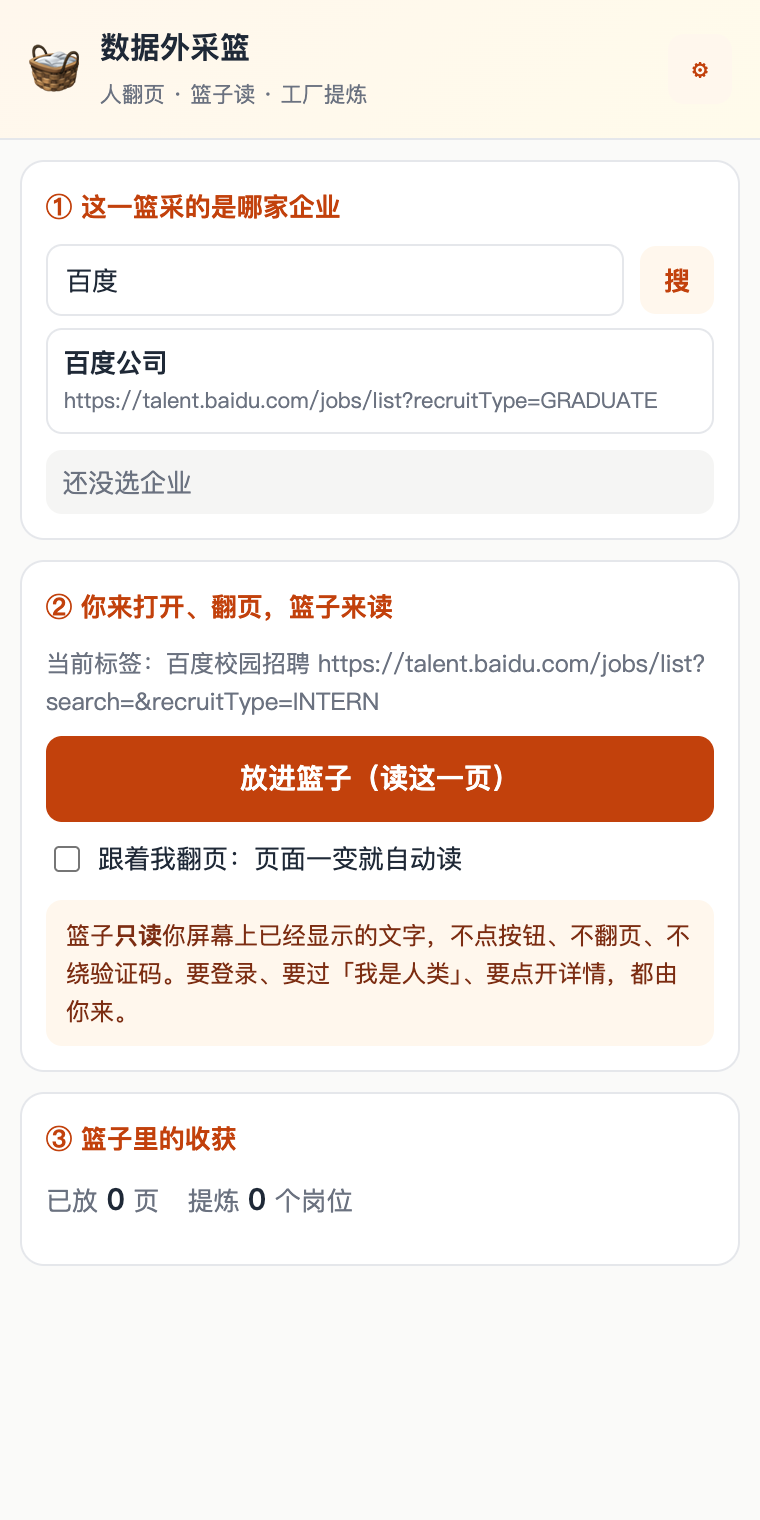
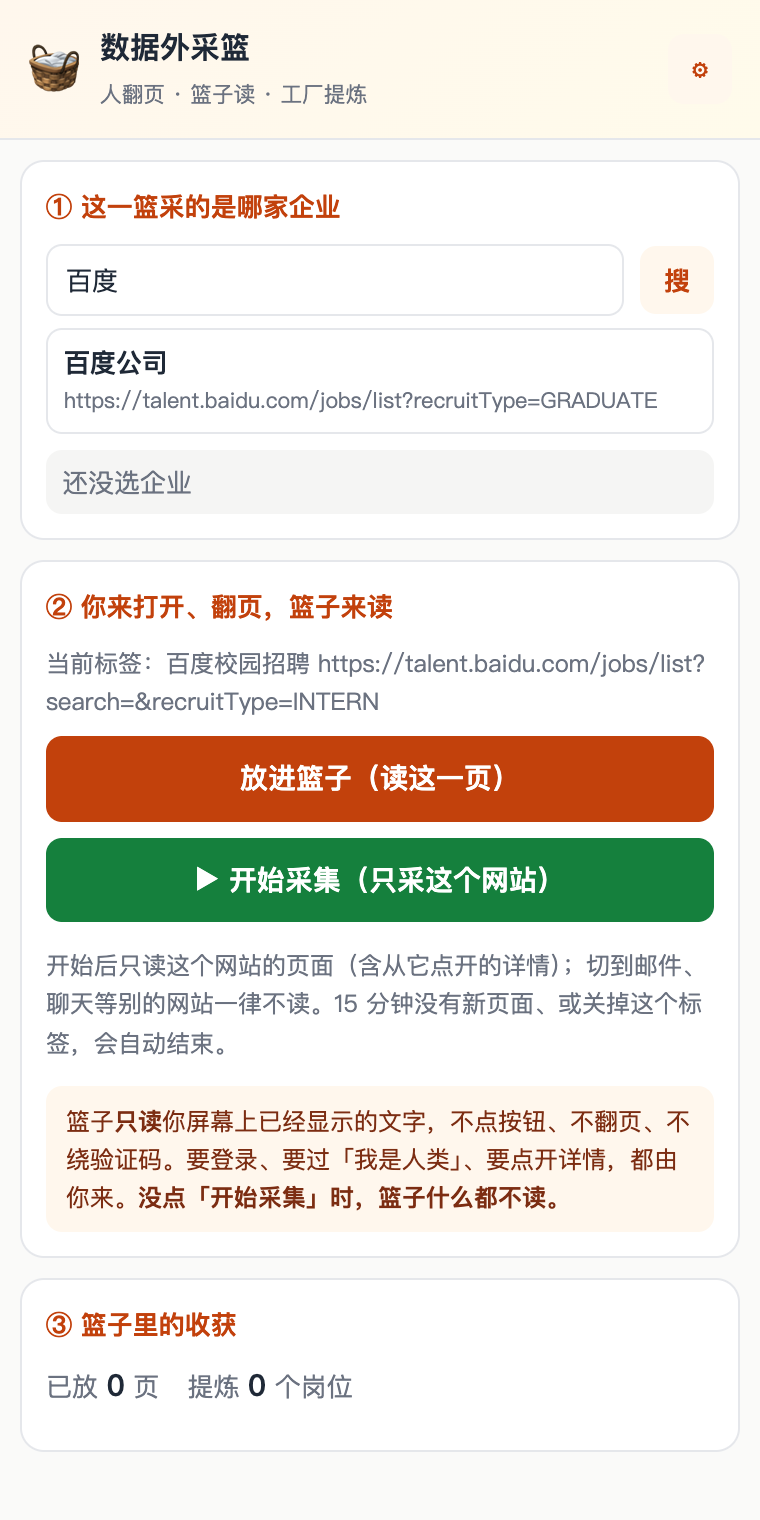
feat(数据外采篮 v0.1.4): 人工开始 / 结束采集——没点开始什么都不读；开始后只读起始网站（主域名，含点开的详情），切到别的网站一律不读；工具栏亮红色「采」；15 分钟无新页面或关掉起始标签自动结束；使用说明和截图同步更新

Changed region(s): [[0.0605, 0.5257, 0.9382, 0.8039], [0.0605, 0.8658, 0.4539, 0.9276]]

diff --git a/extension/data-basket/sidepanel.js b/extension/data-basket/sidepanel.js
@@ -1,7 +1,11 @@
 // 数据外采篮 · 侧边栏
 // 规矩：只读当前标签页上已经显示的文字和链接，不点击、不翻页、不填表、不碰验证码。翻页、登录、点开详情都由人来做。
 const $ = id => document.getElementById(id);
-const state = { base: '', token: '', company: null, follow: false, lastHash: '', sending: false, pages: 0, jobs: 0 };
+const state = { base: '', token: '', company: null, session: null, lastHash: '', sending: false, pages: 0, jobs: 0 };
+// 采集会话：人点「开始采集」才开始，只采开始时那个网站（主域名），15 分钟没新页面 / 关掉起始标签自动结束
+const IDLE_MS = 15 * 60 * 1000;
+const baseDomain = host => { const p = host.replace(/^www\./, '').split('.'); const two = p.length >= 3 && /^(com|net|org|gov|edu|co)$/.test(p[p.length - 2]); return p.slice(two ? -3 : -2).join('.'); };
+const inSession = url => { try { return !!state.session && baseDomain(new URL(url).hostname) === state.session.domain; } catch { return false; } };
 
 const hash = s => { let h = 0; for (let i = 0; i < s.length; i++) h = (h * 31 + s.charCodeAt(i)) | 0; return String(h); };
 
@@ -44,9 +48,10 @@ function readPage() {
   };
 }
 
-async function snapshot() {
+async function snapshot(onlySession = false) {
   const t = await activeTab();
   if (!t || !/^https?:/.test(t.url || '')) return null;
+  if (onlySession && !inSession(t.url)) return null;   // 不是这次采集的网站：一个字都不读
   const [res] = await chrome.scripting.executeScript({ target: { tabId: t.id }, func: readPage });
   return res && res.result;
 }
@@ -77,7 +82,7 @@ function addLog(item, save = true) {
   li.innerHTML = `<span class="${item.ok ? 'ok' : 'bad'}"></span><small></small>${item.ok && item.companyId ? '<a class="go" target="_blank">去岗位库看 ↗</a>' : ''}`;
   const go = li.querySelector('a.go');
   if (go) go.href = `${state.base.replace(/\/$/, '')}/admin/db-job?companyId=${item.companyId}&companyName=${encodeURIComponent(item.company)}&jobType=all${item.kind === 'detail' ? '&flag=%E8%AF%A6%E6%83%85%E5%B7%B2%E8%A1%A5' : ''}`;
-  li.querySelector('span').textContent = item.ok ? `✓ ${item.company}：提炼 ${item.jobs} 个，入库 ${item.saved}${item.kind === 'detail' ? '（详情）' : ''}` : `✗ ${item.error}`;
+  li.querySelector('span').textContent = item.note ? '■ 采集结束' : item.ok ? `✓ ${item.company}：提炼 ${item.jobs} 个，入库 ${item.saved}${item.kind === 'detail' ? '（详情）' : ''}` : `✗ ${item.error}`;
   li.querySelector('small').textContent = `${item.time} · ${item.title || ''}`;
   $('log').prepend(li);
   if (save) chrome.storage.local.get('log').then(s => chrome.storage.local.set({ log: [item, ...(s.log || [])].slice(0, 100) }));
@@ -87,14 +92,15 @@ async function putInBasket(reason) {
   if (state.sending) return;
   if (!state.token) { $('settings').classList.remove('hidden'); $('settingsMsg').textContent = '先填篮子口令'; return; }
   if (!state.company) { $('picked').textContent = '先选这一篮是哪家企业'; return; }
-  const snap = await snapshot().catch(e => ({ error: e.message }));
+  const snap = await snapshot(reason === 'follow').catch(e => ({ error: e.message }));
+  if (!snap && reason === 'follow') return;   // 这一瞬间切到了别的网站：不读
   if (!snap || snap.error) { addLog({ ok: false, error: `读不到这一页：${snap?.error || '不是网页'}`, time: new Date().toLocaleTimeString() }); return; }
   const h = hash(snap.text);
   if (reason === 'follow' && h === state.lastHash) return;
   state.lastHash = h; state.sending = true; $('once').disabled = true; $('once').textContent = '篮子正在交给工厂…';
   try {
     const r = await api('/api/basket/page', { method: 'POST', body: JSON.stringify({ companyId: state.company.id, ...snap, kind: 'auto' }) });
-    state.pages++; state.jobs += r.jobs; renderStats(); chrome.storage.local.set({ pages: state.pages, jobs: state.jobs });
+    state.pages++; state.jobs += r.jobs; if (state.session) state.session.pages++; renderStats(); chrome.storage.local.set({ pages: state.pages, jobs: state.jobs });
     addLog({ ok: true, company: r.company, companyId: state.company.id, jobs: r.jobs, saved: r.saved, kind: r.kind, title: snap.title, time: new Date().toLocaleTimeString() });
   } catch (e) {
     addLog({ ok: false, error: e.message, title: snap.title, time: new Date().toLocaleTimeString() });
@@ -107,12 +113,14 @@ async function putInBasket(reason) {
 let prev = '', stableTicks = 0;
 setInterval(async () => {
   refreshPageInfo();
-  if (!state.follow || state.sending) return;
-  const snap = await snapshot().catch(() => null);
+  renderSession();
+  if (!state.session || state.sending) return;
+  if (Date.now() - state.session.lastAt > IDLE_MS) { stopSession('15 分钟没有新页面，自动结束'); return; }
+  const snap = await snapshot(true).catch(() => null);
   if (!snap) return;
   const h = hash(snap.text);
   if (h === prev) stableTicks++; else { prev = h; stableTicks = 0; }
-  if (stableTicks === 1 && h !== state.lastHash) putInBasket('follow');
+  if (stableTicks === 1 && h !== state.lastHash) { state.session.lastAt = Date.now(); putInBasket('follow'); }
 }, 2000);
 
 $('toggleSettings').onclick = () => $('settings').classList.toggle('hidden');
@@ -125,6 +133,34 @@ $('saveSettings').onclick = async () => {
 $('search').onclick = async () => { try { const j = await api(`/api/basket/companies?q=${encodeURIComponent($('q').value.trim())}`); renderResults(j.data); } catch (e) { renderResults([], e.message); } };
 $('q').addEventListener('keydown', e => { if (e.key === 'Enter') $('search').click(); });
 $('once').onclick = () => putInBasket('once');
-$('follow').onchange = e => { state.follow = e.target.checked; state.lastHash = ''; };
+
+function renderSession() {
+  const on = !!state.session;
+  $('session').classList.toggle('hidden', !on);
+  $('startStop').className = on ? 'stop' : 'start';
+  $('startStop').textContent = on ? '■ 结束采集' : '▶ 开始采集（只采这个网站）';
+  if (on) { $('sessHost').textContent = state.session.domain; $('sessInfo').textContent = `已采 ${state.session.pages} 页 · 开始于 ${new Date(state.session.startedAt).toLocaleTimeString()} · 只读 ${state.session.domain} 的页面`; }
+  chrome.action.setBadgeText({ text: on ? '采' : '' }).catch(() => {});
+  if (on) chrome.action.setBadgeBackgroundColor({ color: '#dc2626' }).catch(() => {});
+}
+async function startSession() {
+  if (!state.token) { $('settings').classList.remove('hidden'); $('settingsMsg').textContent = '先填篮子口令'; return; }
+  if (!state.company) { $('picked').textContent = '先选这一篮是哪家企业'; return; }
+  const t = await activeTab();
+  if (!t || !/^https?:/.test(t.url || '')) { addLog({ ok: false, error: '先打开要采的招聘网站，再点开始', time: new Date().toLocaleTimeString() }); return; }
+  state.session = { tabId: t.id, domain: baseDomain(new URL(t.url).hostname), startedAt: Date.now(), lastAt: Date.now(), pages: 0 };
+  state.lastHash = ''; prev = ''; stableTicks = 0;
+  renderSession();
+}
+function stopSession(why) {
+  if (!state.session) return;
+  const s0 = state.session; state.session = null; renderSession();
+  addLog({ ok: true, company: state.company?.name || '', companyId: state.company?.id, jobs: 0, saved: 0, title: `采集结束：${s0.domain}，共 ${s0.pages} 页${why ? `（${why}）` : ''}`, time: new Date().toLocaleTimeString(), note: true });
+}
+$('startStop').onclick = () => state.session ? stopSession() : startSession();
+// 起始标签关掉 → 结束
+chrome.tabs.onRemoved.addListener(id => { if (state.session && id === state.session.tabId) stopSession('起始标签已关闭'); });
+// 侧边栏关掉也就不采了：下次打开是「没在采集」
+chrome.action.setBadgeText({ text: '' }).catch(() => {});
 
 load();

diff --git a/src/app/basket/page.tsx b/src/app/basket/page.tsx
@@ -25,7 +25,7 @@ const STEPS_INSTALL: Step[] = [
 const STEPS_USE: Step[] = [
   { t: '连接工厂', d: '在本页登录后点「生成篮子口令」，复制；点开插件的 ⚙，平台地址填 https://www.aidataoffice.com，粘贴口令、保存，显示「连上了」就好。口令在哪个平台生成，平台地址就填哪个。', img: '/basket/step-token.png', img2: '/basket/step-connect.png' },
   { t: '选企业', d: '在插件里搜这一篮要采的企业。打开招聘站时插件会按网址先猜几家，已有岗位最多的排最前；同一个招聘站在名单里常对应好几家（比如百度公司 / 百度（中国）/ 网讯），选岗位一直挂着的那家。', img: '/basket/step-pick.png' },
-  { t: '你来打开、翻页', d: '打开招聘站，该登录登录、该过验证过验证，翻到职位列表。打开「跟着我翻页」，之后你每翻一页、每点开一个详情，篮子自动读一次。' },
+  { t: '开始采集，你来翻页', d: '打开招聘站，该登录登录、该过验证过验证，翻到职位列表，点插件里的「▶ 开始采集」。之后你每翻一页、每点开一个详情，篮子自动读一次——只读这个网站，切到邮件、聊天等别的网站一律不读；工具栏的篮子上会亮红色「采」字。采完点「■ 结束采集」（15 分钟没新页面、或关掉这个标签也会自动结束）。只想读一页，就点「放进篮子」。' },
   { t: '看收获', d: '侧边栏实时显示每一篮提炼了几个岗位、入了多少库，点「去岗位库看 ↗」直接跳到这家企业的岗位。岗位以「待审核」进岗位库，带「数据外采篮」「仅列表信息 / 详情已补」标记（岗位库可按「采集标记」筛选），信息源库同时记下真实的职位列表页。', img: '/basket/step-follow.png' },
 ];
 
@@ -114,6 +114,7 @@ export default function BasketPage() {
       <section className="bk-wrap bk-sec">
         <h2>篮子的规矩</h2>
         <div className="bk-rules">
+          <div><b>人说开始才开始</b><span>没点「开始采集」时篮子什么都不读；开始后也只读那一个网站，切走就不读</span></div>
           <div><b>只读不点</b><span>不点按钮、不翻页、不填表——这些都是人做的</span></div>
           <div><b>不碰验证码</b><span>验证、登录永远由人完成，篮子不绕任何拦截</span></div>
           <div><b>不伪装、不并发</b><span>人看一页，篮子读一页，节奏就是人的节奏</span></div>
@@ -194,7 +195,7 @@ const CSS = `
 .bk-nums b { display:block; font-size:32px; color:var(--brand); }
 .bk-nums span { color:var(--ink2); font-size:13px; }
 .bk-note { color:var(--ink2); font-size:14px; background:var(--soft); border-radius:12px; padding:10px 14px; display:inline-block; }
-.bk-rules { display:grid; grid-template-columns:repeat(auto-fit,minmax(220px,1fr)); gap:12px; }
+.bk-rules { display:grid; grid-template-columns:repeat(auto-fit,minmax(190px,1fr)); gap:12px; }
 .bk-rules div { background:#fff; border:1px solid var(--line); border-radius:14px; padding:14px; }
 .bk-rules b { display:block; margin-bottom:4px; }
 .bk-rules span { color:var(--ink2); font-size:13px; }

diff --git a/extension/data-basket/sidepanel.html b/extension/data-basket/sidepanel.html
@@ -31,10 +31,13 @@
     <div class="row">
       <button id="once">放进篮子（读这一页）</button>
     </div>
-    <div class="row">
-      <label class="switch"><input type="checkbox" id="follow" /> <span>跟着我翻页：页面一变就自动读</span></label>
+    <div id="session" class="session hidden">
+      <div class="rec"><span class="dot"></span>正在采集 <b id="sessHost"></b></div>
+      <div class="muted small" id="sessInfo"></div>
     </div>
-    <p class="hint">篮子<b>只读</b>你屏幕上已经显示的文字，不点按钮、不翻页、不绕验证码。要登录、要过「我是人类」、要点开详情，都由你来。</p>
+    <div class="row"><button id="startStop" class="start">▶ 开始采集（只采这个网站）</button></div>
+    <p class="muted small">开始后只读这个网站的页面（含从它点开的详情）；切到邮件、聊天等别的网站一律不读。15 分钟没有新页面、或关掉这个标签，会自动结束。</p>
+    <p class="hint">篮子<b>只读</b>你屏幕上已经显示的文字，不点按钮、不翻页、不绕验证码。要登录、要过「我是人类」、要点开详情，都由你来。<b>没点「开始采集」时，篮子什么都不读。</b></p>
   </section>
 
   <section class="card">

diff --git a/extension/data-basket/sidepanel.css b/extension/data-basket/sidepanel.css
@@ -36,3 +36,10 @@ button:disabled { opacity: .5; cursor: default; }
 #log .bad { color: var(--bad); }
 #log small { display: block; color: var(--ink2); }
 #log a.go { font-size: 12px; text-decoration: none; color: var(--brand); }
+button.start { width: 100%; padding: 10px; background: #15803d; font-size: 14px; }
+button.stop { width: 100%; padding: 10px; background: #b91c1c; font-size: 14px; }
+.session { margin-top: 10px; padding: 8px 10px; border-radius: 8px; background: #fef2f2; border: 1px solid #fecaca; }
+.rec { display: flex; align-items: center; gap: 6px; color: #b91c1c; font-weight: 600; }
+.rec b { color: var(--ink); word-break: break-all; }
+.dot { width: 9px; height: 9px; border-radius: 50%; background: #dc2626; animation: blink 1.2s infinite; flex: none; }
+@keyframes blink { 50% { opacity: .25; } }
